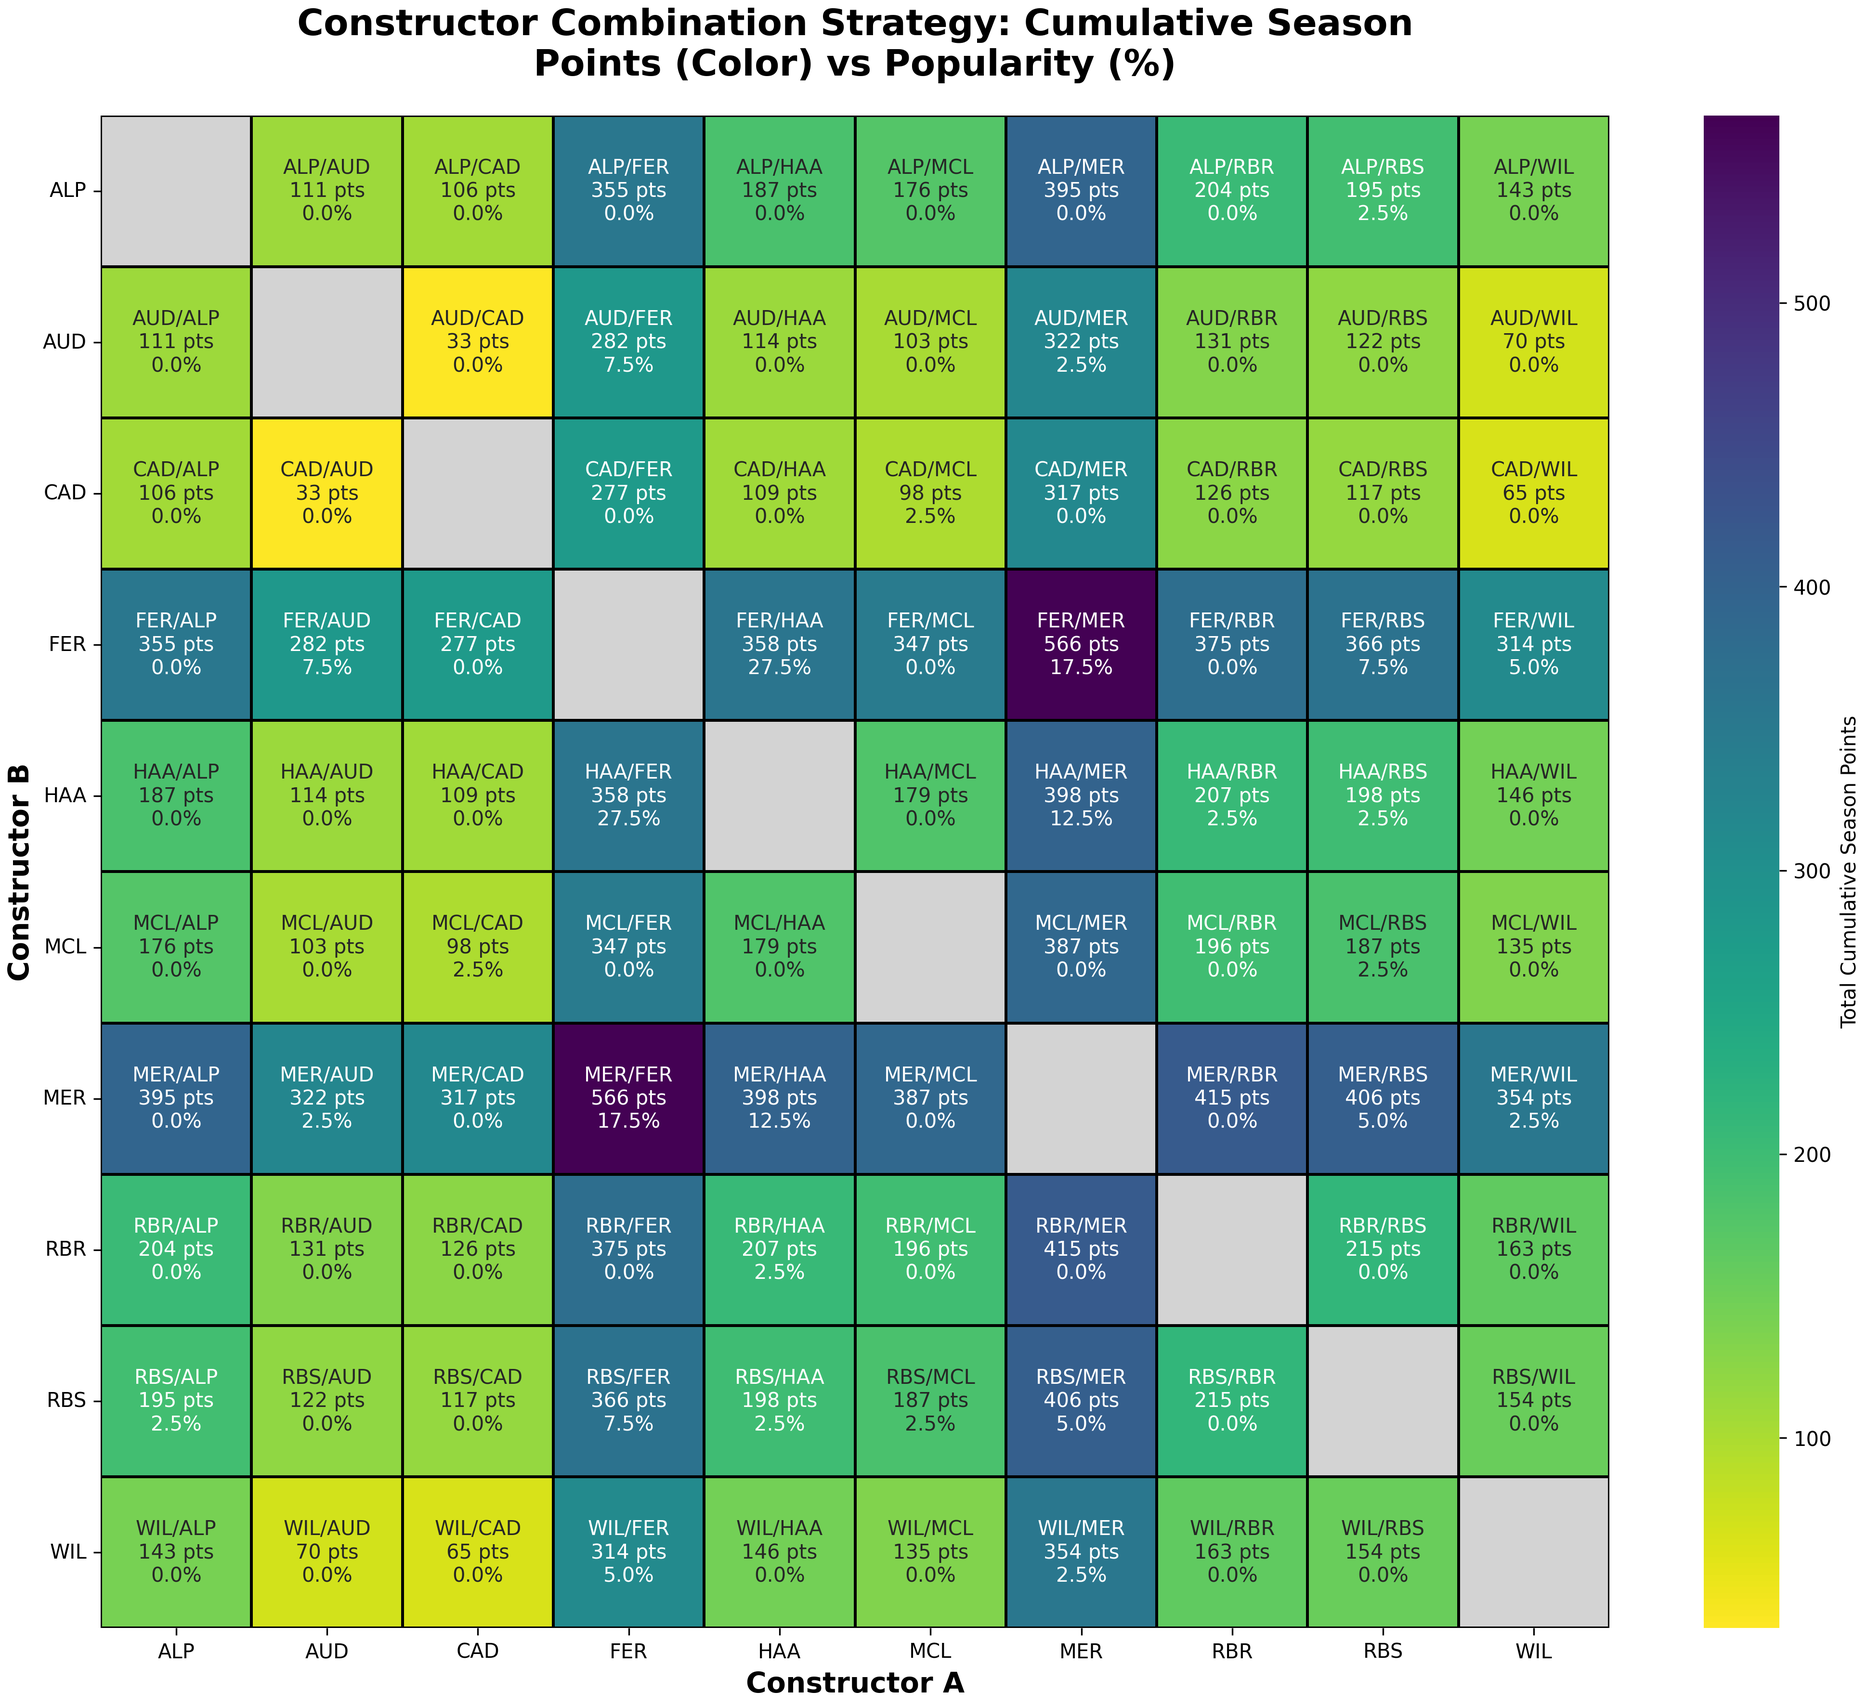
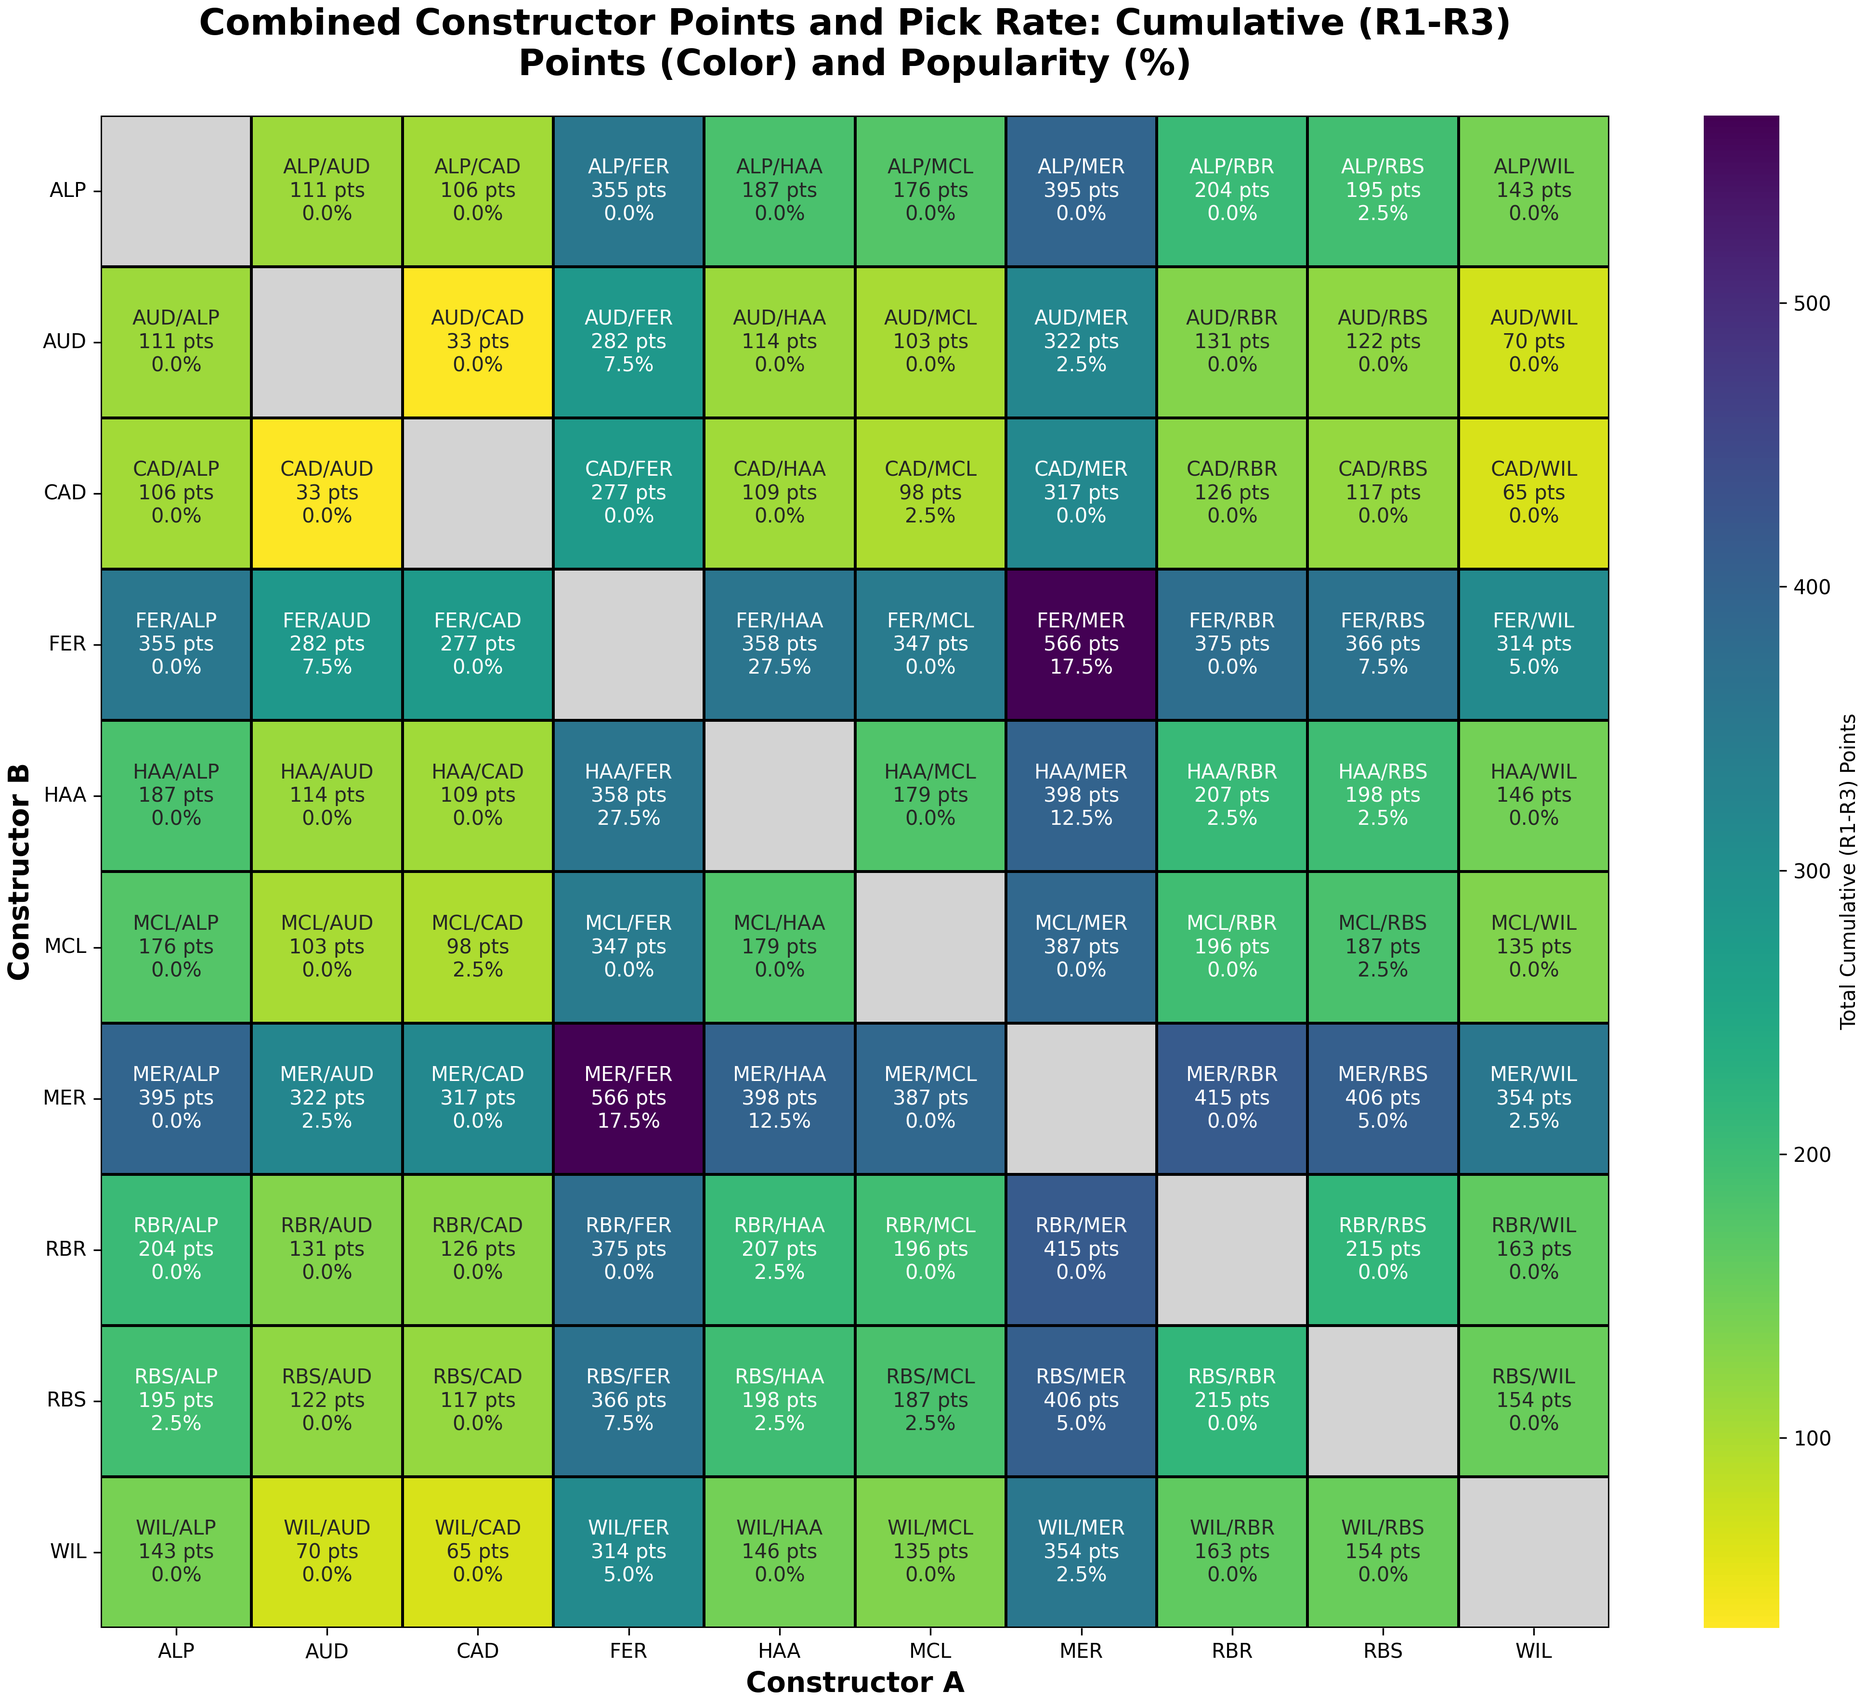
general improvements and plottly test commit

Changed region(s): [[0.0936, 0.0, 0.8115, 0.0621], [0.9675, 0.4349, 0.9987, 0.5902]]

diff --git a/code/analysers/plotlyexperi.py b/code/analysers/plotlyexperi.py
@@ -1,0 +1,179 @@
+import os
+import pandas as pd
+import matplotlib.pyplot as plt
+import numpy as np
+from plottable import Table, ColumnDefinition
+from plottable.cmap import normed_cmap
+from matplotlib.colors import LinearSegmentedColormap
+
+CURRENT_DIR = os.path.abspath(__file__)
+PROJECT_ROOT = CURRENT_DIR
+for _ in range(3):
+    PROJECT_ROOT = os.path.dirname(PROJECT_ROOT)
+
+processed_dir = os.path.join(PROJECT_ROOT, "data", "processed")
+output_dir = os.path.join(PROJECT_ROOT, "analysis", "confidential_analysis", "plottly_exp_imgs")
+os.makedirs(output_dir, exist_ok=True)
+
+race_folders = sorted(
+    [f for f in os.listdir(processed_dir) if f.startswith("R") and f != "R0"],
+    key=lambda x: int(x.lstrip("R")),
+    reverse=True,
+)
+
+COLUMNS = ["Overall Rank", "Team", "Name", "Total Points", "Total Cost Cap", "Transfers Left"]
+
+# ── Colour palette ─────────────────────────────────────────────────────────────
+BG_COLOR     = "#0f1117"
+HEADER_BG    = "#1a1d2e"
+ODD_ROW      = "#13161f"
+EVEN_ROW     = "#181b27"
+BORDER_COLOR = "#2a2d3e"
+TEXT_PRIMARY = "#e8eaf6"
+TEXT_DIM     = "#8890b5"
+ACCENT       = "#7c4dff"
+
+# Colour scales: low → high
+POINTS_CMAP = LinearSegmentedColormap.from_list(
+    "points", ["#C8B32C", "#c4c424", "#2DB026", "#7630c2", "#7d30b5"],
+)
+COST_CMAP = LinearSegmentedColormap.from_list(
+    "cost", ["#1a1d2e", "#2d4a7a", "#1565c0", "#42a5f5", "#80d8ff"],
+)
+
+
+def build_column_defs(df: pd.DataFrame) -> list:
+    pts_cmap  = normed_cmap(df["Total Points"],   cmap=POINTS_CMAP, num_stds=2.5)
+    cost_cmap = normed_cmap(df["Total Cost Cap"], cmap=COST_CMAP,   num_stds=2.5)
+
+    return [
+        ColumnDefinition(
+            name="Team",
+            width=1.8,
+            textprops={"ha": "left", "color": TEXT_DIM, "fontsize": 9},
+        ),
+        ColumnDefinition(
+            name="Name",
+            width=2.0,
+            textprops={"ha": "left", "color": TEXT_PRIMARY, "fontsize": 9, "fontweight": "bold"},
+        ),
+        ColumnDefinition(
+            name="Total Points",
+            width=1.4,
+            textprops={"ha": "center", "color": TEXT_PRIMARY, "fontsize": 9, "fontweight": "bold"},
+            cmap=pts_cmap,
+        ),
+        ColumnDefinition(
+            name="Total Cost Cap",
+            width=1.4,
+            textprops={"ha": "center", "color": TEXT_PRIMARY, "fontsize": 9, "fontweight": "bold"},
+            cmap=cost_cmap,
+            formatter=lambda v: f"{v:.1f}",
+        ),
+        ColumnDefinition(
+            name="Transfers Left",
+            width=1.3,
+            textprops={"ha": "center", "color": TEXT_DIM, "fontsize": 9},
+        ),
+    ]
+
+
+for folder in race_folders:
+    file_path = os.path.join(processed_dir, folder, "playerinfo.csv")
+    if not os.path.exists(file_path):
+        continue
+
+    df = pd.read_csv(file_path)
+    df.insert(0, "Overall Rank", range(1, len(df) + 1))
+    df = df.rename(columns={
+        "Total_Points":   "Total Points",
+        "Total_Cost_Cap": "Total Cost Cap",
+        "Swaps_Rem":      "Transfers Left",
+    })
+    df = df[COLUMNS].copy()
+    df["Total Points"]   = df["Total Points"].round(0).astype("Int64")
+    df["Total Cost Cap"] = df["Total Cost Cap"].round(1)
+    df = df.set_index("Overall Rank")
+
+    n_rows = len(df)
+    fig_h  = max(5, n_rows * 0.42 + 2.5)
+    fig, ax = plt.subplots(figsize=(15, fig_h))
+    fig.patch.set_facecolor(BG_COLOR)
+    ax.set_facecolor(BG_COLOR)
+    ax.axis("off")
+
+    # ── Table ──────────────────────────────────────────────────────────────────
+    # Header cell styling is done via col_label_cell_kw (background) and
+    # textprops (global text defaults). Per-column text is set in ColumnDefinition.
+    tab = Table(
+        df,
+        ax=ax,
+        column_definitions=build_column_defs(df),
+        row_dividers=True,
+        col_label_divider=True,
+        footer_divider=False,
+        odd_row_color=ODD_ROW,
+        even_row_color=EVEN_ROW,
+        # Global text defaults (headers inherit these unless overridden)
+        textprops={"color": TEXT_PRIMARY, "fontsize": 9},
+        # Style the header row background + text globally
+        col_label_cell_kw={"facecolor": HEADER_BG},
+        row_divider_kw={"linewidth": 0.4, "linestyle": "-", "color": BORDER_COLOR},
+        col_label_divider_kw={"linewidth": 1.2, "linestyle": "-", "color": ACCENT},
+    )
+
+    # ── Post-render: style data cells via tab.columns / tab.rows ───────────────
+    # Accent colour + bold for the rank column data cells
+    tab.columns["Overall Rank"].set_fontcolor(ACCENT)
+
+    # Bold + bright for header labels (column label row is row index 0 in plottable)
+    # Use tab.rows to set font on all data rows uniformly if needed
+    # Style individual column header texts via the col_label cells directly
+    for col_name in df.reset_index().columns:
+        if col_name in tab.columns:
+            # Make header text bold and sized correctly
+            col_obj = tab.columns[col_name]
+            # col_label_cell is the first cell (index 0) in the column sequence
+            if hasattr(col_obj, 'column_label'):
+                col_obj.column_label.set_text_props(fontweight="bold", fontsize=9.5)
+
+    # ── Title block ────────────────────────────────────────────────────────────
+    race_num = int(folder.lstrip("R"))
+
+    fig.text(
+        0.5, 0.97, f"RACE  {race_num}",
+        ha="center", va="top",
+        fontsize=22, fontweight="bold",
+        color=TEXT_PRIMARY, fontfamily="monospace",
+        transform=fig.transFigure,
+    )
+    fig.text(
+        0.5, 0.93, "PLAYER  STANDINGS",
+        ha="center", va="top",
+        fontsize=9.5, color=TEXT_DIM, fontfamily="monospace",
+        transform=fig.transFigure,
+    )
+    fig.add_artist(plt.Line2D(
+        [0.12, 0.88], [0.915, 0.915],
+        transform=fig.transFigure,
+        color=ACCENT, linewidth=1.2, alpha=0.7,
+    ))
+
+    # ── Colour-scale legend strips ─────────────────────────────────────────────
+    for x_pos, cmap, label in [
+        (0.565, POINTS_CMAP, "Points scale →"),
+        (0.72,  COST_CMAP,   "Cost scale →"),
+    ]:
+        lax = fig.add_axes([x_pos, 0.005, 0.135, 0.016])
+        lax.imshow(np.linspace(0, 1, 256).reshape(1, -1), aspect="auto", cmap=cmap)
+        lax.set_yticks([])
+        lax.set_xticks([])
+        for spine in lax.spines.values():
+            spine.set_visible(False)
+        lax.set_title(label, color=TEXT_DIM, fontsize=6.5, pad=2)
+
+    # ── Save ───────────────────────────────────────────────────────────────────
+    out_path = os.path.join(output_dir, f"race_{race_num}_playerinfo.png")
+    plt.savefig(out_path, dpi=150, bbox_inches="tight", facecolor=BG_COLOR)
+    plt.close()
+    print(f"Saved: {out_path}")

diff --git a/code/analysers/concombo_heatmap.py b/code/analysers/concombo_heatmap.py
@@ -11,10 +11,10 @@ for _ in range(3):  # go up 3 levels to reach the root project folder
     PROJECT_ROOT = os.path.dirname(PROJECT_ROOT)
 
 processed_dir = os.path.join(PROJECT_ROOT, 'data', 'processed')
-analysis_dir = os.path.join(PROJECT_ROOT, "analysis")
+concombo_dir = os.path.join(PROJECT_ROOT, 'analysis', 'confidential_analysis', 'constructor_combos')
 
 # Ensure the analysis directory exists
-os.makedirs(analysis_dir, exist_ok=True)
+os.makedirs(concombo_dir, exist_ok=True)
 
 # Find all race folders and filter out R0
 race_folders = [f for f in os.listdir(processed_dir) if f.startswith('R') and f != 'R0']
@@ -82,12 +82,16 @@ for i, con1 in enumerate(active_cons):
         cumul_labels[i, j] = f"{con1}/{con2}\n{c_pts} pts\n{pct:.1f}%"
 
 # 5. VISUALIZE AND SAVE
-plot_configs = [
-    (latest_data, latest_labels, "Latest Race", f"constructor_heatmap_latest_{latest_round}.png"),
-    (cumul_data, cumul_labels, "Cumulative Season", f"constructor_heatmap_cumulative_{latest_round}.png")
-]
-
-# ... (rest of your processing code remains the same)
+if f'{latest_round}' == 'R1':
+    plot_configs = [
+        (latest_data, latest_labels, f"Latest Race ({latest_round})", f"constructor_heatmap_latest_{latest_round}.png"),
+        (cumul_data, cumul_labels, "Cumulative (R1)", f"constructor_heatmap_cumulative_{latest_round}.png")
+    ]
+else:
+    plot_configs = [
+        (latest_data, latest_labels, f"Latest Race ({latest_round})", f"constructor_heatmap_latest_{latest_round}.png"),
+        (cumul_data, cumul_labels, f"Cumulative (R1-{latest_round})", f"constructor_heatmap_cumulative_{latest_round}.png")
+    ]
 
 for data, labels, title_type, filename in plot_configs:
     fig, ax = plt.subplots(figsize=(14, 12))
@@ -111,7 +115,7 @@ for data, labels, title_type, filename in plot_configs:
     
     # Note: Seaborn does not draw annotations for NaN values. This is perfect for "blocking out" the diagonal, as it remains solid black.
     
-    plt.title(f"Constructor Combination Strategy: {title_type}\nPoints (Color) vs Popularity (%)", 
+    plt.title(f"Combined Constructor Points and Pick Rate: {title_type}\nPoints (Color) and Popularity (%)", 
               fontsize=18, pad=20, fontweight='bold')
     plt.xlabel("Constructor A", fontsize=14, fontweight='bold')
     plt.ylabel("Constructor B", fontsize=14, fontweight='bold')
@@ -119,8 +123,8 @@ for data, labels, title_type, filename in plot_configs:
     plt.yticks(rotation=0)
     
     plt.tight_layout()
-    save_path = os.path.join(analysis_dir, filename)
+    save_path = os.path.join(concombo_dir, filename)
     plt.savefig(save_path, dpi=300, bbox_inches='tight', pad_inches=0.05)
     plt.close()
 
-print(f"Heatmaps successfully saved to: {analysis_dir}")
+print(f"Heatmaps successfully saved to: {concombo_dir}")

diff --git a/code/data_formatters/raw_json_formatter.py b/code/data_formatters/raw_json_formatter.py
@@ -26,7 +26,7 @@ def find_raw_files():
 
 
 def build_row_with_empty_price(item):
-    """Build row with empty price column for initial processing"""
+    # Build row with empty price column for initial processing
     points = item.get("ProjectedGamedayPoints", "0")
     try:
         points = str(int(float(points)))
@@ -49,7 +49,7 @@ def write_csv(path, rows):
 
 
 def process_race_for_points(race_num, all_races):
-    """Write name and points data for a race to RN folder"""
+    # Write name and points data for a race to RN folder, but skip price (price will be added in the next pass)
     if race_num not in all_races:
         return
     
@@ -75,7 +75,7 @@ def process_race_for_points(race_num, all_races):
 
 
 def write_price_csv(csv_path, price_map):
-    """Write a CSV file with zero points and price values"""
+    # Write a CSV file with zero points and price values from price_map (used for pre-race folders that are missing the initial points+price CSVs) 
     os.makedirs(os.path.dirname(csv_path), exist_ok=True)
     with open(csv_path, "w", newline="", encoding="utf-8") as f:
         writer = csv.writer(f)
@@ -85,7 +85,7 @@ def write_price_csv(csv_path, price_map):
 
 
 def update_csv_with_prices(csv_path, price_map):
-    """Update a CSV file by adding prices in the price column"""
+    # Update a CSV file by adding prices in the price column based on the price_map (used for updating existing CSVs with price data from the next race) 
     if not os.path.exists(csv_path):
         return
     
@@ -110,7 +110,7 @@ def update_csv_with_prices(csv_path, price_map):
 
 
 def update_race_with_price(folder_num, race_num, all_races):
-    """Update R(folder_num) with price data from race_num"""
+    # Update R(folder_num) with price data from race_num
     if race_num not in all_races:
         return
     

diff --git a/code/analysers/costcap_analysis.py b/code/analysers/costcap_analysis.py
@@ -50,14 +50,17 @@ for i, row in df.iterrows():
 
 plt.xlabel('Total Cost Cap', fontweight='bold')
 plt.ylabel('Total Points',  fontweight='bold')
-plt.title(f'Points vs Cost Cap - {latest_folder}', fontsize=16, fontweight='bold', pad=20)
+if f'{latest_folder}' == 'R1':
+    plt.title(f'Points vs Cost Cap - {latest_folder}', fontsize=16, fontweight='bold', pad=20)
+else:
+    plt.title(f'Points vs Cost Cap (R1-{latest_folder})', fontsize=16, fontweight='bold', pad=20)
 
 output_path1 = os.path.join(confidential_dir, "costcap_scatter.png")
 plt.savefig(output_path1, bbox_inches='tight')
 print(f"Scatter plot saved to {output_path1}")
 
-plt.xticks([])  # Set x-ticks to blank to hide them in the public version
-plt.legend([], [])  # Hide legend for public version
-output_path2 = os.path.join(analysis_dir, "costcap_scatter.png")
-plt.savefig(output_path2, bbox_inches='tight')
-print(f"Scatter plot saved to {output_path2}")
+# plt.xticks([])  # Set x-ticks to blank to hide them in the public version
+# plt.legend([], [])  # Hide legend for public version
+# output_path2 = os.path.join(analysis_dir, "costcap_scatter.png")
+# plt.savefig(output_path2, bbox_inches='tight')
+# print(f"Scatter plot saved to {output_path2}")

diff --git a/code/scrapers/raw_json_scraper.py b/code/scrapers/raw_json_scraper.py
@@ -17,7 +17,6 @@ os.makedirs(PATH, exist_ok=True)
 print(f"Output directory: {PATH}")
 
 def scrape_all():
-    """Scrape all race data from scratch."""
     # Find the maximum race number with data (up to 30)
     max_race = 0
     for i in range(1, 31):
@@ -53,7 +52,6 @@ def scrape_all():
             print(f"Error saving race {i}: {e}")
 
 def update():
-    """Update by fetching only new race data and renumbering existing files."""
     # Find existing max_saved
     files = [f for f in os.listdir(PATH) if f.startswith("race_") and f.endswith(".json")]
     max_saved = max((int(f.split('_')[1].split('.')[0]) for f in files), default=0)
@@ -103,5 +101,5 @@ def update():
 
 # Run update by default for optimization
 if __name__ == "__main__":
-    #scrape_all()  # Use this to scrape from scratch
-    update()
+    scrape_all()  # Use this to scrape from scratch
+    # update() # Use this to only fetch new data since last scrape

diff --git a/code/scrapers/player_scraper.py b/code/scrapers/player_scraper.py
@@ -264,8 +264,8 @@ def scrape(link):
         time.sleep(5)
 
     except Exception as e:
-        print(f"Grand prix button not found or clicked: {e}")
+        print(f"Grand prix button not found or error while scraping data (look with head mode if player cards are not updating upon clicking): {e}")
 
-    time.sleep(5)
+    time.sleep(2)
 
 scrape(MAIN_LINK)
